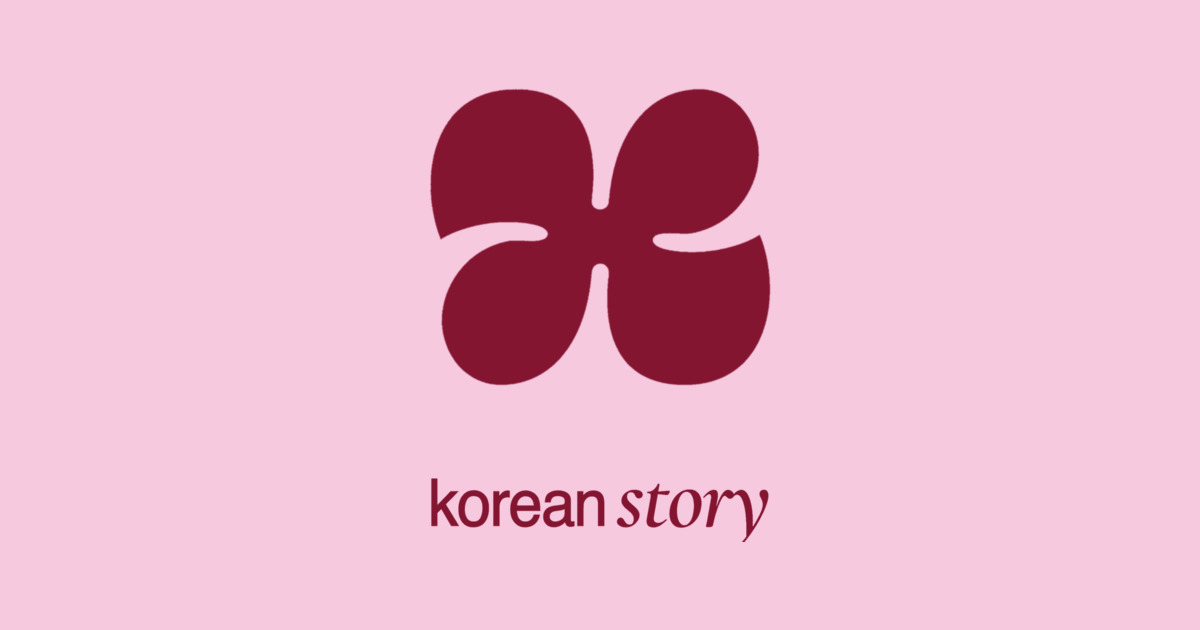
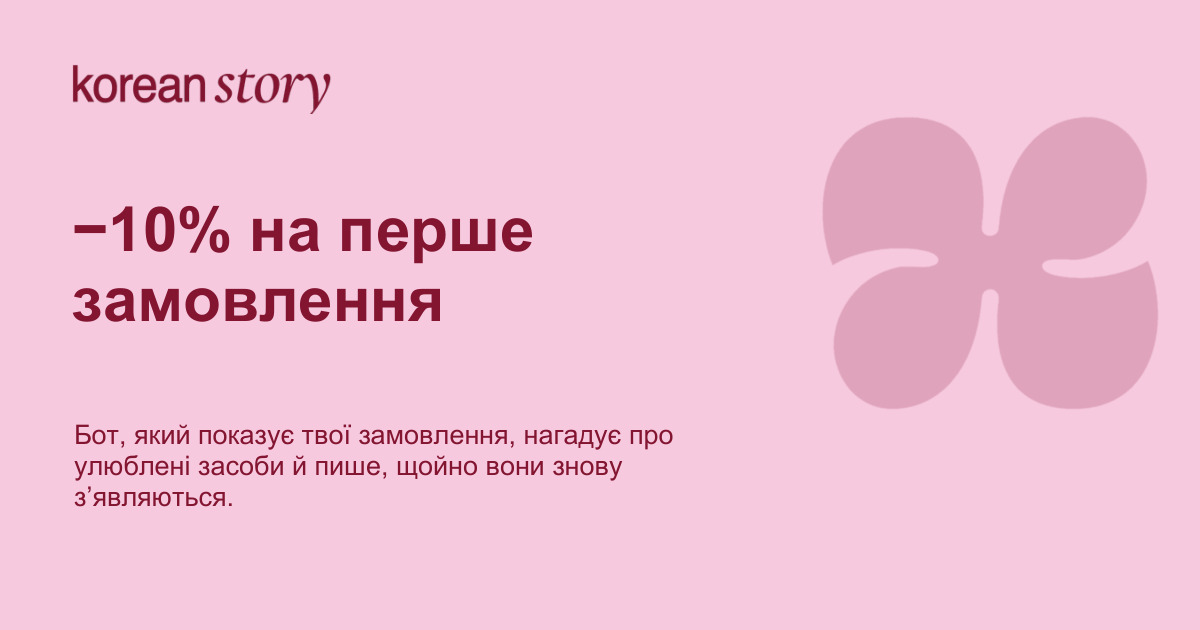
fix(share): an invitation you can tell is tappable, with the offer on the card
Reported from a phone: the panel opened, the card was there, and there was no
way to send it. The cause is that a photo result turns the panel into a gallery
of thumbnails — no title, no description, nothing that reads as "tap me". It is
an article again, and the card arrives as the link preview above the text, so
the row says «Korean Story · Надіслати запрошення» and looks like every other
row in this bot.

The card itself now carries what the invitation is actually offering: −10% на
перше замовлення, what the bot does, the wordmark, and the mark as a watermark
rather than as the whole composition. The old one was the two marks alone in an
empty field — measured dead centre, and still reading as unfinished, which is
what "кривая" meant.

Built by a script again, and a real one this time: `webapp/build_cards.py`. The
ImageMagick on this machine has no FreeType and cannot draw a glyph, so the
layout is rendered through PyMuPDF; the masks it paints from are checked in
beside it. The deck embeds no font that can be extracted, so the copy is set in
a neutral grotesque — a wrong serif would be more visibly wrong than a plain one.

**The card now promises a discount that config.yaml does not have.** Until
`first_order_code` names a code that exists in the Shopify admin, a friend who
follows this invitation arrives to nothing, because the offer is hidden without
one. That code is the next thing that has to exist.

diff --git a/webapp/build_cards.py b/webapp/build_cards.py
@@ -1,0 +1,92 @@
+"""Build the two cards the bot sends, from the brand's own artwork.
+
+The mark and the wordmark are lifted off the identity pages of the 2026
+strategy deck (masks in this directory) and repainted; the body copy is set in
+Helvetica, because the deck embeds no font that can be extracted and a wrong
+serif is more visibly wrong than a neutral grotesque.
+
+Rendered with PyMuPDF rather than ImageMagick: the ImageMagick on this machine
+is built without FreeType and cannot draw text at all.
+"""
+from __future__ import annotations
+
+import pathlib
+import subprocess
+
+import pymupdf
+
+W, H = 1200, 630
+PINK, BURGUNDY, LIME = "#F7C9DF", "#831531", "#D0D151"
+REGULAR = "/System/Library/Fonts/Supplemental/Arial.ttf"
+BOLD = "/System/Library/Fonts/Supplemental/Arial Bold.ttf"
+HERE = pathlib.Path(__file__).parent
+
+
+def rgb(value: str) -> tuple[float, float, float]:
+    value = value.lstrip("#")
+    return tuple(int(value[i:i + 2], 16) / 255 for i in (0, 2, 4))
+
+
+def tinted(mask: str, colour: str, out: str, opacity: float = 1.0) -> str:
+    """One of the masks, painted and optionally faded, as a transparent PNG."""
+    size = subprocess.run(["magick", "identify", "-format", "%wx%h", str(HERE / mask)],
+                          capture_output=True, text=True).stdout
+    cmd = ["magick", "-size", size, f"xc:{colour}", str(HERE / mask),
+           "-alpha", "off", "-compose", "CopyOpacity", "-composite"]
+    if opacity < 1:
+        cmd += ["-alpha", "set", "-channel", "A", "-evaluate", "multiply",
+                str(opacity), "+channel"]
+    cmd.append(str(HERE / out))
+    subprocess.run(cmd, check=True)
+    return str(HERE / out)
+
+
+def card(background: str, blocks, images, out: pathlib.Path, quality: int = 92) -> None:
+    doc = pymupdf.open()
+    page = doc.new_page(width=W, height=H)
+    page.draw_rect(pymupdf.Rect(0, 0, W, H), color=None, fill=rgb(background))
+    for path, rect in images:
+        page.insert_image(pymupdf.Rect(*rect), filename=path, keep_proportion=True)
+    for text, rect, size, colour, font, align in blocks:
+        page.insert_textbox(pymupdf.Rect(*rect), text, fontsize=size,
+                            fontname="brand" + font[-8:-4], fontfile=font,
+                            color=rgb(colour), align=align, lineheight=1.25)
+    pix = page.get_pixmap(dpi=72)
+    # Through PNG and ImageMagick rather than pix.pil_save: Pillow is not
+    # installed here, and the JPEG is only needed because the Bot API insists
+    # an inline photo result is one.
+    png = out.with_suffix(".png")
+    pix.save(png)
+    if out.suffix == ".jpg":
+        subprocess.run(["magick", str(png), "-quality", str(quality), str(out)],
+                       check=True)
+        png.unlink()
+
+
+# --- the invitation: what the friend is being offered, said on the card -----
+card(
+    PINK,
+    blocks=[
+        ("−10% на перше\nзамовлення", (72, 195, 760, 380), 62, BURGUNDY, BOLD, 0),
+        ("Бот, який показує твої замовлення, нагадує про улюблені засоби "
+         "й пише, щойно вони знову зʼявляються.",
+         (74, 420, 700, 560), 27, BURGUNDY, REGULAR, 0),
+    ],
+    images=[
+        (tinted("flower_trim.png", BURGUNDY, "f_faded.png", 0.20), (820, 115, 1160, 411)),
+        (tinted("wordmark_trim.png", BURGUNDY, "w_burgundy.png"), (72, 64, 332, 114)),
+    ],
+    out=HERE / "invite_card.jpg",
+)
+
+# --- the birthday card: the greeting is the caption, the card is the brand ---
+card(
+    BURGUNDY,
+    blocks=[],
+    images=[
+        (tinted("flower_trim.png", LIME, "f_lime.png"), (428, 87, 772, 387)),
+        (tinted("wordmark_trim.png", PINK, "w_pink.png"), (430, 477, 770, 542)),
+    ],
+    out=HERE / "birthday_card.png",
+)
+print("built")

diff --git a/bot/handlers/inline.py b/bot/handlers/inline.py
@@ -36,9 +36,9 @@ from aiogram import F, Router
 from aiogram.exceptions import TelegramBadRequest
 from aiogram.types import (CallbackQuery, InlineKeyboardButton,
                            InlineKeyboardMarkup, InlineQuery,
-                           InlineQueryResultArticle, InlineQueryResultPhoto,
-                           InlineQueryResultsButton,
-                           InputTextMessageContent, SwitchInlineQueryChosenChat)
+                           InlineQueryResultArticle, InlineQueryResultsButton,
+                           InputTextMessageContent, LinkPreviewOptions,
+                           SwitchInlineQueryChosenChat)
 from loguru import logger
 
 from core import texts
@@ -299,33 +299,27 @@ async def _answer_invite(query: InlineQuery, t: Texts, config: AppConfig) -> Non
         InlineKeyboardButton(text=t.BTN_INVITE_OPEN, url=link)]])
     track(query.from_user.id, "invite_offered")
 
-    # The card itself, when there is one published: an invitation that arrives
-    # as the shop's own colours is a different thing from an invitation that
-    # arrives as a link. JPEG because the Bot API says a photo result must be
-    # one, and a url because Telegram fetches it itself.
-    result = (
-        InlineQueryResultPhoto(
-            id=f"i{query.from_user.id}",
-            photo_url=config.invite_card_url,
-            thumbnail_url=config.invite_card_url,
-            title=config.brand_name,
-            description=t.MSG_INVITE_ROW,
-            caption=caption,
-            parse_mode="HTML",
-            reply_markup=keyboard,
-        )
+    # An article rather than a photo result, and the card arrives as the link
+    # preview above the text. A photo result turns the panel into a gallery of
+    # thumbnails with no label on them, and the first person to use this could
+    # not tell there was anything to tap.
+    preview = (
+        LinkPreviewOptions(url=config.invite_card_url, prefer_large_media=True,
+                           show_above_text=True)
         if config.invite_card_url else
-        InlineQueryResultArticle(
-            id=f"i{query.from_user.id}",
-            title=config.brand_name,
-            description=t.MSG_INVITE_ROW,
-            input_message_content=InputTextMessageContent(
-                message_text=caption, parse_mode="HTML"),
-            reply_markup=keyboard,
-        )
+        LinkPreviewOptions(is_disabled=True)
     )
     await query.answer(
-        [result],
+        [InlineQueryResultArticle(
+            id=f"i{query.from_user.id}",
+            title=config.brand_name,
+            description=t.MSG_INVITE_ROW,
+            thumbnail_url=config.invite_card_url or None,
+            input_message_content=InputTextMessageContent(
+                message_text=caption, parse_mode="HTML",
+                link_preview_options=preview),
+            reply_markup=keyboard,
+        )],
         # Per person: the link in it is theirs, and a shared cache would hand
         # the next sharer somebody else's referral.
         cache_time=300,

diff --git a/tests/test_share.py b/tests/test_share.py
@@ -230,13 +230,18 @@ def test_the_same_button_without_a_sku_invites_the_bot(db):
 
 
 def test_the_invitation_arrives_as_the_shops_own_card(db):
-    """An invitation in the brand's colours is a different thing from a link."""
+    """An invitation in the brand's colours is a different thing from a link —
+    and it arrives as the preview above the text rather than as a photo result,
+    because a photo result turns the panel into unlabelled thumbnails that the
+    first person to use this could not tell were tappable."""
     query = _Query("поділитися")
     asyncio.run(inline_list(query, T, _config()))
     row = query.results[0]
-    assert row.photo_url == CARD
-    assert "Korean Story" in row.caption
-    assert str(CHAT) not in row.caption
+    assert row.description == T.MSG_INVITE_ROW, "the row says what it does"
+    preview = row.input_message_content.link_preview_options
+    assert preview.url == CARD and preview.prefer_large_media
+    assert "Korean Story" in row.input_message_content.message_text
+    assert str(CHAT) not in row.input_message_content.message_text
 
 
 def test_without_a_published_card_the_invitation_is_still_sent(db):
@@ -245,6 +250,7 @@ def test_without_a_published_card_the_invitation_is_still_sent(db):
     asyncio.run(inline_list(query, T, _config(invite_card_url="")))
     row = query.results[0]
     assert "Korean Story" in row.input_message_content.message_text
+    assert row.input_message_content.link_preview_options.is_disabled
     assert row.reply_markup.inline_keyboard[0][0].url.endswith(str(CHAT))
 
 
